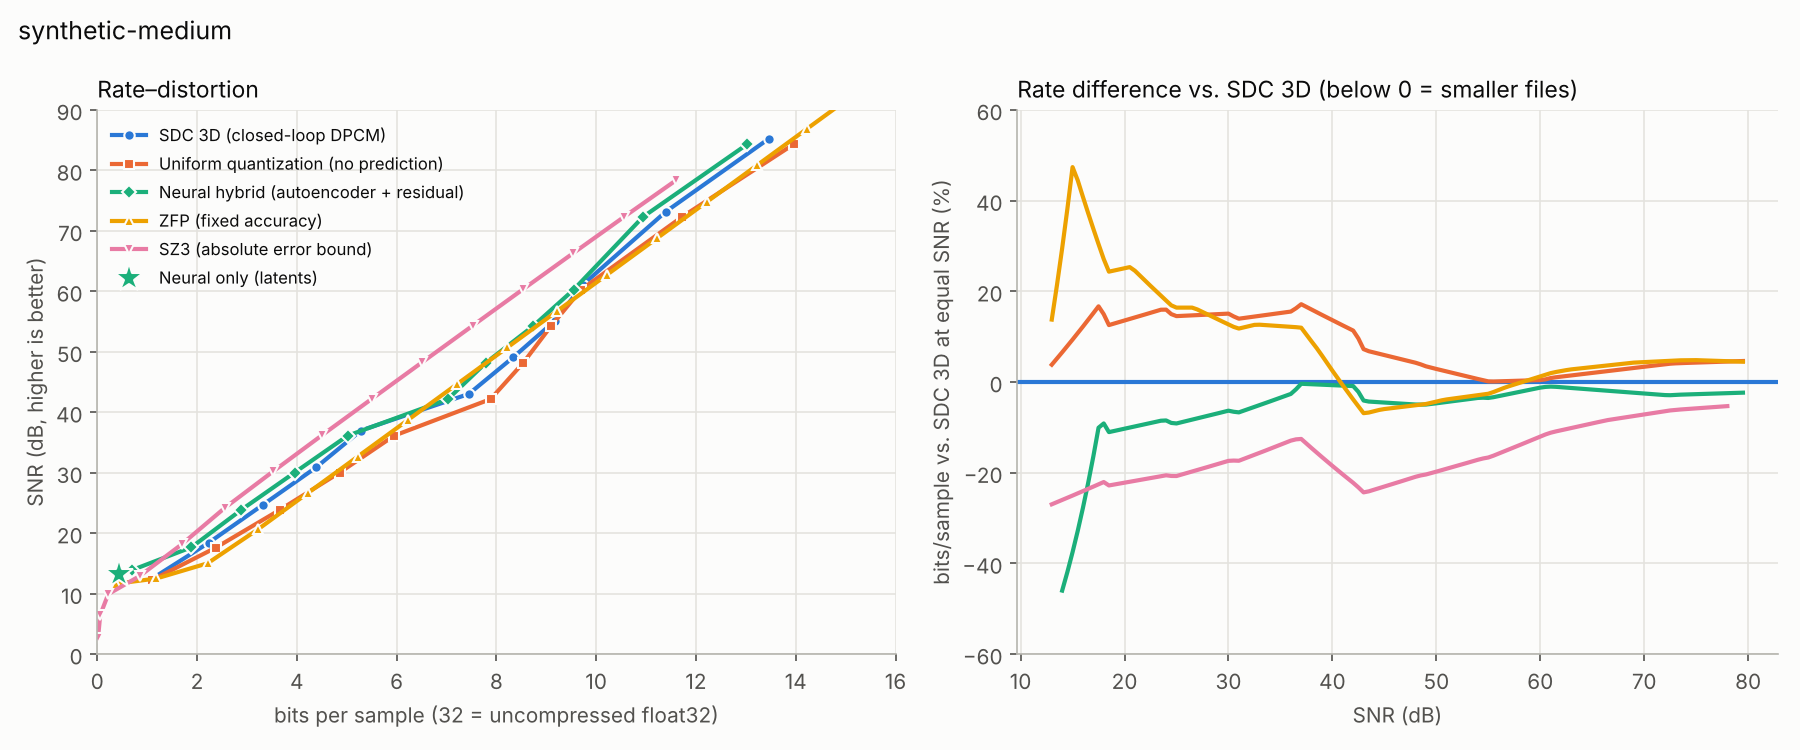
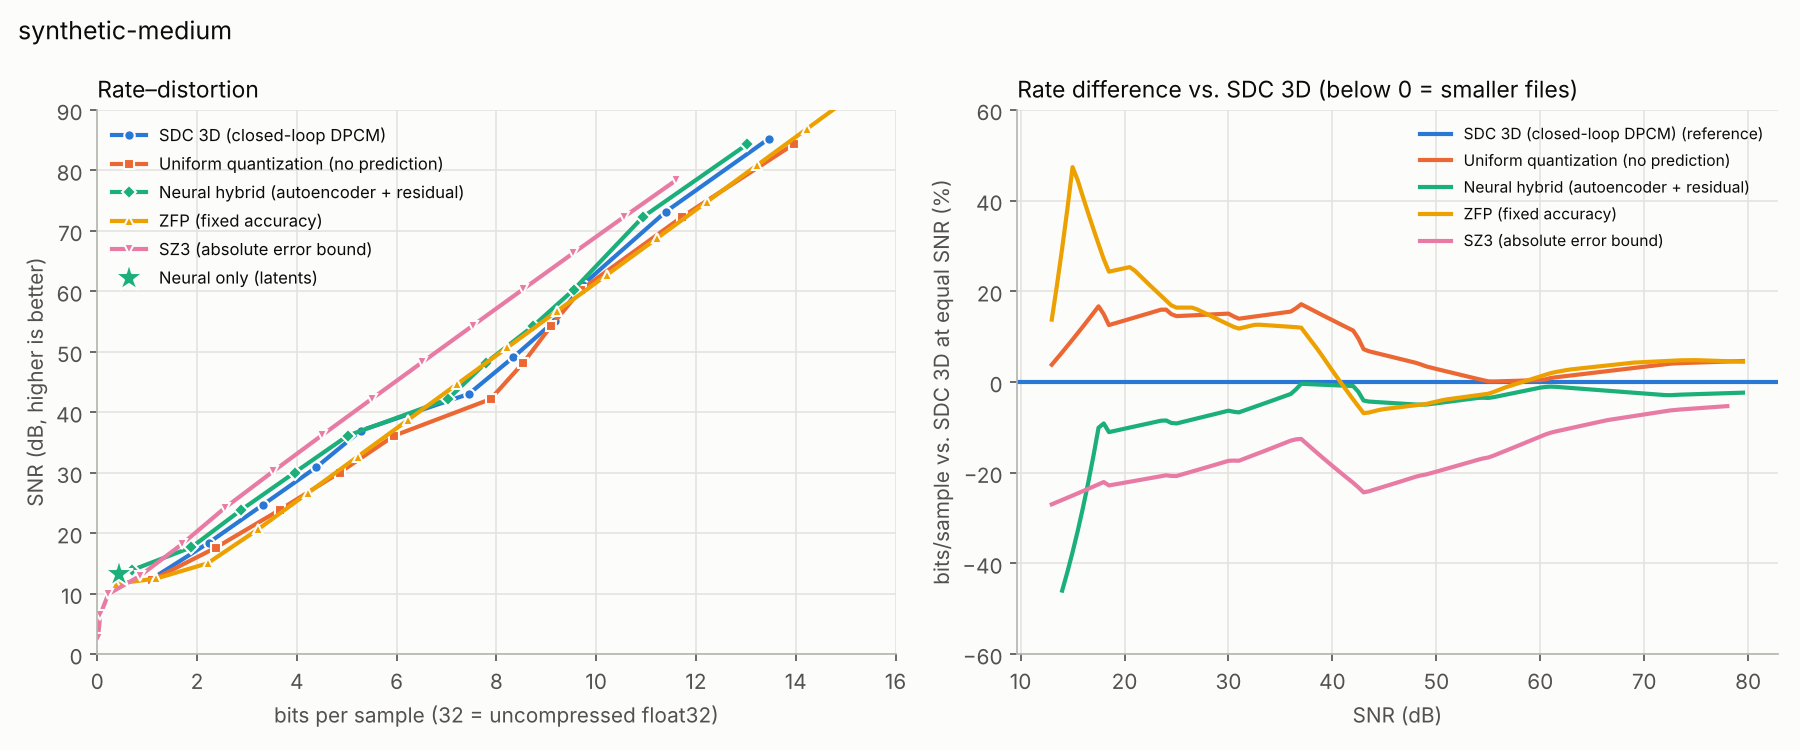
docs: corrections from an independent review of every published number
- error bound stated as half a step up to float32 rounding (measured max
  errors exceed s*step/2 by ~1 ulp)
- slowdown ranges recomputed: 25-80x (compress) / 175-240x (decompress)
  vs SDC 3D; 25-90x / 170-390x vs the classical codecs
- noise described in absolute terms (sigma = 6, ~20% of signal RMS, the
  noisy volume is 13.8 dB from the clean one) instead of '2%'
- 15 dB figures marked as interpolated, with the nearest measured points
- OOD: parity at 15 dB and a loss at 40 dB (also behind ZFP) now stated
- ZFP beats SDC 3D between ~45 and 55 dB; SZ3 keeps an edge at high SNR
- 75:1 excludes the 131 KB model (~0.06 bits/sample on this volume)
- provenance: commit per run, external library versions recorded in the
  rate-distortion reports (numbers unchanged)
- sweep bit depths, run time, sdc-bench dependency, rounding of two cells
- test: legacy 3D payload decode

Claude-Session: https://claude.ai/code/session_01L6AUcGxWRM2t1wnuYrfkAc

Changed region(s): [[0.7778, 0.1533, 0.9644, 0.3373]]

diff --git a/sdc-core/src/test/java/com/sdc/core/ClosedLoopCodecTest.java b/sdc-core/src/test/java/com/sdc/core/ClosedLoopCodecTest.java
@@ -93,4 +93,27 @@ class ClosedLoopCodecTest {
                         assertEquals(cube[i][j][k], rec[i][j][k], tol, "bits=" + bits);
         }
     }
+
+    @Test
+    void legacyVolumePayloadIsStillDecodedWithTheCallerProfile() {
+        int ni = 3, nj = 4, nt = 64;
+        float[][][] norm = new float[ni][nj][nt];
+        for (int i = 0; i < ni; i++)
+            for (int j = 0; j < nj; j++)
+                for (int k = 0; k < nt; k++)
+                    norm[i][j][k] = (float) (0.8 * Math.sin((k + i + j) * 0.2));
+        // payload exactly as written before the closed-loop revision: open-loop residual, 16 bits
+        float[] flat = VolumeBlock3DCodec.flatten3D(VolumeBlock3DCodec.residualEncode(norm));
+        short[] q = LinearQuantizer.encode(flat, CompressionProfile.defaultHighQuality());
+        byte[] legacy = TraceBlockCodec.deflate(TraceBlockCodec.shortsToBytes(q), 9);
+        assertEquals((byte) 0x78, legacy[0]);
+        VolumeBlock3D meta = new VolumeBlock3D(0, 0, 0, new float[ni][nj][nt]);
+        float[][][] rec = VolumeBlock3DCompressor.decompressBlock(
+                new VolumeBlock3DCompressor.CompressedVolumeBlock3D(meta, -1f, 1f, legacy),
+                CompressionProfile.defaultHighQuality());
+        for (int i = 0; i < ni; i++)
+            for (int j = 0; j < nj; j++)
+                for (int k = 0; k < nt; k++)
+                    assertEquals(norm[i][j][k], rec[i][j][k], 0.01, "voxel " + i + "," + j + "," + k);
+    }
 }

diff --git a/sdc-ai/src/main/java/com/sdc/ai/NeuralHybridCodec.java b/sdc-ai/src/main/java/com/sdc/ai/NeuralHybridCodec.java
@@ -14,14 +14,14 @@ import java.util.zip.Inflater;
 
 /**
  * Hybrid neural codec for 3D seismic volumes: a learned autoencoder predicts each section, and
- * the prediction residual is uniformly quantized, so the maximum error is guaranteed.
+ * the prediction residual is uniformly quantized, so the maximum error is bounded.
  *
  * <pre>
  *   x_n   = x / s                      s = peak |x| of the volume (stored)
  *   y     = round(encoder(x_n))        per inline section (crossline x time), int8 latents
  *   p     = decoder(y)                 prediction, identical on encoder and decoder side
  *   q     = round((x_n - p) / step)    step = 1 / (2^(bits-1) - 1)
- *   x_hat = s * (p + q * step)         |x - x_hat| <= s * step / 2 for every sample
+ *   x_hat = s * (p + q * step)         |x - x_hat| <= s * step / 2, up to float32 rounding (~1 ulp of x)
  * </pre>
  *
  * <p>Payload = deflate(latents) + deflate(residual indices, stored as byte planes). With {@link Predictor#NONE} the

diff --git a/sdc-core/src/main/java/com/sdc/core/ClosedLoopQuantizer.java b/sdc-core/src/main/java/com/sdc/core/ClosedLoopQuantizer.java
@@ -10,8 +10,8 @@ import java.io.ByteArrayOutputStream;
  * The previous (open-loop) codecs predicted from the original samples while encoding and from
  * the reconstructed samples while decoding, so quantization error accumulated along the
  * prediction chain. Here the encoder runs the decoder's reconstruction internally, so the
- * error of every sample is bounded by half a quantization step (plus the rare overload case,
- * which the loop corrects on the following samples).</p>
+ * error of every sample is bounded by half a quantization step, up to float rounding (plus the
+ * rare overload case, which the loop corrects on the following samples).</p>
  *
  * <p>Payload layout (all codecs): {@code [FORMAT_CLOSED_LOOP][bits][deflate(stream)]} where the
  * stream holds one signed byte per sample when {@code bits <= 8}; otherwise each sample is a

diff --git a/benchmark/rd_report.py b/benchmark/rd_report.py
@@ -118,7 +118,9 @@ def main():
 
     rows = list(csv.DictReader(open(os.path.join(args.results, "rd.csv"))))
     ext_rows = []
-    report = ["# Rate–distortion report", "",
+    import importlib.metadata as md
+    versions = ", ".join(f"{p} {md.version(p)}" for p in ("zfpy", "hdf5plugin", "h5py", "numpy"))
+    report = ["# Rate–distortion report", "", f"External codec libraries: {versions}.", "",
               "bits/sample over raw float32 samples (32 = uncompressed); SNR in dB on the original amplitudes.",
               "External codecs (ZFP, SZ3) run in Python on exactly the same samples.", ""]
 

diff --git a/benchmark/README.md b/benchmark/README.md
@@ -16,7 +16,7 @@ benchmark/
         └── run.log           # console output
 ```
 
-The code lives in the [`sdc-bench`](../sdc-bench) Maven module, which depends only on `sdc-core` (no TensorFlow).
+The code lives in the [`sdc-bench`](../sdc-bench) Maven module, which depends on `sdc-core` and on the pure-Java neural codec in `sdc-ai` (TensorFlow Java is excluded).
 
 ## How to run
 
@@ -26,7 +26,7 @@ Prerequisites: JDK 17+ and Maven 3.9 (same as the rest of the project). About 3 
 ./benchmark/run-benchmark.sh
 ```
 
-This builds `sdc-core` + `sdc-bench`, generates the datasets (`small` and `medium`) if needed, checks each one's SHA-256, runs the benchmark and writes to `benchmark/results/<YYYY-MM-DD>_<os>-<arch>-<N>cpu/`. It takes about 2 minutes on the reference machine.
+This builds `sdc-core` + `sdc-bench`, generates the datasets (`small` and `medium`) if needed, checks each one's SHA-256, runs the benchmark and writes to `benchmark/results/<YYYY-MM-DD>_<os>-<arch>-<N>cpu/`. Without a neural model it takes about 2 minutes; with the neural codec and `RD=1` the reference run took about 45 minutes on 2 vCPUs (the neural profiles alone take ~22 minutes on `medium`).
 
 Environment variables:
 
@@ -41,6 +41,8 @@ Environment variables:
 | `LABEL` | `<os>-<arch>-<N>cpu` | run label (becomes part of the directory name) |
 | `OUT` | `benchmark/results/<date>_<label>` | output directory |
 | `SKIP_BUILD` | `0` | `1` skips `mvn package` |
+| `MODEL` | `auto` | neural model (`.sdcnn`); `auto` = `sdc-ai/models/sdc-ae-v1.sdcnn` if present, `none` disables the neural codecs |
+| `RD` | `0` | `1` adds the rate–distortion sweep (`rd.csv`) |
 
 Examples:
 
@@ -59,7 +61,7 @@ Real seismic data tends to be large and restrictively licensed, so it can't be v
 - reflectors dipping in inline and xline with a gentle sinusoidal fold (one every ~25 samples)
 - one planar normal fault (6.5-sample throw)
 - 25 Hz Ricker wavelet, dt = 4 ms
-- exponential attenuation with time and additive Gaussian noise (2% of scale)
+- exponential attenuation with time and additive Gaussian noise (`noiseLevel` 0.02 → σ = 6 amplitude units, i.e. about 20% of the signal RMS; the noisy `medium` volume is 13.8 dB from its noise-free version — a noisy dataset)
 - SEG-Y rev1, format 5 (IEEE float32), inline at trace-header bytes 189-192 and xline at bytes 193-196
 
 | Preset | Grid (IL × XL × samples) | Traces | Size | SHA-256 |
@@ -104,7 +106,7 @@ The SDC codecs run with the three `CompressionProfile` profiles: `HIGH_QUALITY` 
 - **PSNR (dB)** = 20·log10((max − min) / RMSE), using the volume's dynamic range as the peak
 - **NRMSE (%)** = RMSE / RMS(x) × 100, and **maximum absolute error**
 
-**Rate–distortion sweep (`RD=1`).** Profiles compare codecs at different qualities, which can mislead. The sweep runs every bit depth from 4 to 16 (Deflate 9 everywhere) for `sdc-3d`, `uniform-quant` and `neural-hybrid`, plus one `neural-only` point (latents only, no residual), and writes `rd.csv`. `benchmark/rd_report.py` then adds two external, state-of-the-art scientific compressors on exactly the same samples — **ZFP** (fixed accuracy, `zfpy`) and **SZ3** (absolute error bound, `hdf5plugin`) — and reports:
+**Rate–distortion sweep (`RD=1`).** Profiles compare codecs at different qualities, which can mislead. The sweep runs bit depths 4–12, 14 and 16 (Deflate 9 everywhere) for `sdc-3d`, `uniform-quant` and `neural-hybrid`, plus one `neural-only` point (latents only, no residual), and writes `rd.csv`. `benchmark/rd_report.py` then adds two external, state-of-the-art scientific compressors on exactly the same samples — **ZFP** (fixed accuracy, `zfpy`) and **SZ3** (absolute error bound, `hdf5plugin`) — and reports:
 
 - bits/sample needed to reach target SNRs (piecewise-linear interpolation between measured points);
 - **BD-rate**: the average relative difference in bits/sample at equal SNR over the SNR range two curves share (piecewise-linear in log2(bits/sample); the classic cubic fit is not used because Deflate's efficiency changes in steps);
@@ -119,7 +121,7 @@ python benchmark/rd_report.py --results benchmark/results/<run> --segy synthetic
 
 ## Reference results
 
-Run [`results/2026-10-14_linux-x86_64-2cpu`](results/2026-10-14_linux-x86_64-2cpu/summary.md), commit `69fc8c8`, clean tree, `RD=1`. Rate–distortion report: [`rd_report.md`](results/2026-10-14_linux-x86_64-2cpu/rd_report.md).
+Run [`results/2026-10-14_linux-x86_64-2cpu`](results/2026-10-14_linux-x86_64-2cpu/summary.md): Java measurements from commit `69fc8c8` (clean tree, `RD=1`); the external baselines, BD-rate and charts in [`rd_report.md`](results/2026-10-14_linux-x86_64-2cpu/rd_report.md) were produced by `benchmark/rd_report.py` (library versions recorded at the top of the report: zfpy 1.0.1, hdf5plugin 7.1.0 for SZ3, h5py 3.16.0, numpy 2.5.3).
 
 **Hardware/software:** Intel Xeon @ 2.80 GHz, 2 vCPUs, 8 GiB RAM, container · OpenJDK 21.0.12 (G1, fixed 3 GiB heap). Full details in [`hardware.txt`](results/2026-10-14_linux-x86_64-2cpu/hardware.txt). Maven Central was not reachable from that machine, so the benchmark jar was compiled with `javac` from the same commit; the Maven build and all tests run in CI (`.github/workflows/build.yml`).
 
@@ -130,10 +132,10 @@ Run [`results/2026-10-14_linux-x86_64-2cpu`](results/2026-10-14_linux-x86_64-2cp
 | sdc-2d | HIGH_QUALITY | 2.06:1 | 15.57 | 1712 ± 69 | 396 ± 16 | 85.97 | 0.0030 |
 | sdc-2d | BALANCED | 2.69:1 | 11.89 | 2394 ± 61 | 372 ± 19 | 61.88 | 0.048 |
 | sdc-2d | HIGH_COMPRESSION | 4.97:1 | 6.44 | 937 ± 118 | 253 ± 14 | 37.74 | 0.77 |
-| sdc-3d | HIGH_QUALITY | 2.38:1 | 13.46 | 1599 ± 31 | 374 ± 13 | 85.22 | 0.0031 |
+| sdc-3d | HIGH_QUALITY | 2.38:1 | 13.46 | 1598 ± 31 | 374 ± 13 | 85.22 | 0.0031 |
 | sdc-3d | BALANCED | 3.27:1 | 9.78 | 3479 ± 98 | 281 ± 10 | 61.13 | 0.049 |
 | sdc-3d | HIGH_COMPRESSION | 6.06:1 | 5.28 | 1038 ± 54 | 316 ± 11 | 36.99 | 0.78 |
-| neural-hybrid | HIGH_QUALITY | 2.46:1 | 13.03 | 87880 ± 2188 | 65684 ± 3158 | 84.36 | 0.0032 |
+| neural-hybrid | HIGH_QUALITY | 2.46:1 | 13.03 | 87880 ± 2188 | 65684 ± 3157 | 84.36 | 0.0032 |
 | neural-hybrid | BALANCED | 3.33:1 | 9.62 | 85512 ± 373 | 67475 ± 2184 | 60.27 | 0.050 |
 | neural-hybrid | HIGH_COMPRESSION | 6.36:1 | 5.03 | 82619 ± 742 | 62227 ± 738 | 36.13 | 0.81 |
 | uniform-quant | HIGH_QUALITY | 2.29:1 | 13.96 | 1351 ± 21 | 227 ± 6 | 84.36 | 0.0032 |
@@ -151,15 +153,17 @@ bits/sample needed to reach a target SNR (lower is better):
 |---|---:|---:|---:|---:|---:|---:|---:|
 | SDC 3D (closed-loop DPCM) | 1.49 | 2.47 | 3.37 | 4.22 | 6.27 | 8.46 | 9.63 |
 | Uniform quantization (no prediction) | 1.63 | 2.80 | 3.86 | 4.85 | 7.12 | 8.70 | 9.67 |
-| **Neural hybrid (autoencoder + residual)** | **0.93** | 2.21 | 3.06 | 3.95 | 6.23 | 8.06 | 9.51 |
+| Neural hybrid (autoencoder + residual) | **0.93** | 2.21 | 3.06 | 3.95 | 6.23 | 8.06 | 9.51 |
 | ZFP (fixed accuracy) | 2.20 | 3.09 | 3.92 | 4.75 | 6.43 | 8.09 | 9.75 |
 | SZ3 (absolute error bound) | 1.12 | **1.92** | **2.67** | **3.48** | **5.11** | **6.79** | **8.47** |
 
-Neural only (latents, no residual): **0.427 bits/sample (75:1) at 13.25 dB**.
+Neural only (latents, no residual): **0.427 bits/sample (75:1) at 13.25 dB**, not counting the 131 KB model, which is shared by every file (≈0.06 bits/sample if charged to this volume alone).
+
+Values are interpolated between measured points (piecewise-linear in log2(bits/sample)). The 15 dB column sits between distant points: measured, the hybrid needs 0.70 bits/sample at 13.9 dB, uniform quantization 1.10 at 12.2 dB, SDC 3D 1.12 at 12.6 dB (see `rd.csv`). Bold = lowest per column.
 
 | BD-rate (bits/sample at equal SNR) | vs. SDC 3D | vs. uniform quantization |
 |---|---:|---:|
-| Neural hybrid | **−5.7%** | **−12.2%** |
+| Neural hybrid | −5.7% | −12.2% |
 | Uniform quantization | +7.4% | — |
 | ZFP | +7.1% | −0.4% |
 | SZ3 | −16.3% | −22.4% |
@@ -169,22 +173,22 @@ Neural only (latents, no residual): **0.427 bits/sample (75:1) at 13.25 dB**.
 ### What the numbers show
 
 1. **The two codec defects found on 2026-10-12 are fixed.** `sdc-2d` `BALANCED`/`HIGH_COMPRESSION` now reach 61.9 / 37.7 dB (they were at about 0 dB), and `sdc-3d` `HIGH_COMPRESSION` reaches 37.0 dB at 6.06:1 (it was 9.6 dB at 4.79:1). Both codecs now use closed-loop DPCM and store the bit depth in each payload.
-2. **The neural predictor measurably reduces size.** Against the same quantizer without the network (same step, same error bound, same container), the hybrid needs **12.2% fewer bits on average** at equal SNR, and **43% fewer at 15 dB** (0.93 vs 1.63 bits/sample). Against SDC 3D the average gain is 5.7%, and 38% at 15 dB.
-3. **The gain concentrates at low rates.** At high fidelity the residual is dominated by the 2% Gaussian noise of the data, which no predictor can remove, so all codecs converge.
-4. **SZ3 is the strongest codec overall** (−16.3% vs SDC 3D). The neural hybrid beats SZ3 only at the lowest rates (15 dB: 0.93 vs 1.12 bits/sample). ZFP is weaker than every predictive codec here.
-5. **The neural codec is slow:** about 85 s to compress and 65 s to decompress 62.5 MiB in pure Java on 2 vCPUs — roughly 50–80× slower than SDC 3D to compress and about 200× slower to decompress.
+2. **The neural predictor measurably reduces size.** Against the same quantizer without the network (same step, same error bound, same container), the hybrid needs **12.2% fewer bits on average** at equal SNR, and about **43% fewer at 15 dB** (0.93 vs 1.63 bits/sample, interpolated). Against SDC 3D the average gain is 5.7%, and about 38% at 15 dB.
+3. **The gain concentrates at low rates.** At high fidelity the residual is dominated by the data's random noise, which no predictor can remove, so the codecs that share this project's quantizer + Deflate design converge; SZ3 keeps an advantage there (8.47 vs 9.51–9.75 bits/sample at 60 dB) thanks to its own entropy coder.
+4. **SZ3 is the strongest codec overall** (−16.3% vs SDC 3D). The neural hybrid beats SZ3 only at the lowest rates (15 dB: 0.93 vs 1.12 bits/sample). ZFP is weaker on average (BD-rate +7.1% vs SDC 3D) but beats SDC 3D between about 45 and 55 dB.
+5. **The neural codec is slow:** about 85 s to compress and 65 s to decompress 62.5 MiB in pure Java on 2 vCPUs — 25–80× slower than SDC 3D to compress and 175–240× slower to decompress (up to ~390× slower than uniform quantization).
 6. **Neural only** stores just the latents: 0.427 bits/sample (75:1) at 13.25 dB. That SNR is close to the data's own signal-to-noise ratio (13.81 dB): the reconstruction keeps the reflectors and drops most of the noise. Against the noise-free version of the same volume it reaches **19.86 dB**, better than the noisy input itself (`java -cp <bench jar> com.sdc.bench.CleanSignalCheck medium`). Whether discarding noise is acceptable depends on the use; the hybrid modes keep it.
 
 ### Out-of-distribution check
 
-A model trained on synthetic data must be checked on data it was not designed for. Run [`results/2026-10-14_linux-x86_64-2cpu-ood-noise5`](results/2026-10-14_linux-x86_64-2cpu-ood-noise5/rd_report.md): a 128 × 128 × 1000 volume with **5% noise instead of 2%** and seed 3000 (`TrainingDataGenerator /tmp/ood 1 3000 128 128 1000 0.05`).
+A model trained on synthetic data must be checked on data it was not designed for. Run [`results/2026-10-14_linux-x86_64-2cpu-ood-noise5`](results/2026-10-14_linux-x86_64-2cpu-ood-noise5/rd_report.md): a 128 × 128 × 1000 volume with `noiseLevel` **0.05 instead of 0.02** (σ = 15 instead of 6) and seed 3000 (`TrainingDataGenerator /tmp/ood 1 3000 128 128 1000 0.05`; SHA-256 starts with `57e0bd`), measured from commit `5fb932d`.
 
 | BD-rate (bits/sample at equal SNR) | vs. SDC 3D | vs. uniform quantization |
 |---|---:|---:|
 | Neural hybrid | −0.9% | −5.3% |
 | SZ3 | −12.1% | −16.0% |
 
-**The gain shrinks under this distribution shift**: the hybrid still beats plain quantization (−5.3%), but it is only at parity with SDC 3D, and the neural-only point drops to 7.65 dB. Real data, which differs much more from the training set than this, will need its own training and evaluation.
+**The gain shrinks under this distribution shift.** The hybrid still beats plain quantization on average (−5.3%), but against SDC 3D it is at parity on average (−0.9%), has no advantage at 15 dB (2.36 vs 2.37 bits/sample) and **loses at 40 dB** (7.42 vs 7.04, also behind ZFP's 7.33). The neural-only point drops to 7.65 dB. Real data, which differs much more from the training set than this, will need its own training and evaluation.
 
 ### Previous run (2026-10-12, before the fixes)
 
@@ -202,6 +206,6 @@ A model trained on synthetic data must be checked on data it was not designed fo
 - **Synthetic data only so far.** The neural model was trained on volumes from the same generator (different seeds). Real data is less regular; run with `SEGY=...` on public volumes (F3 Netherlands, Volve) before drawing conclusions for production data.
 - **Entropy coding is Deflate for every codec.** That keeps the comparison fair inside this project but penalizes all of them against SZ3, which uses its own Huffman + zstd stage.
 
-- The synthetic data has 2% Gaussian noise, which limits lossless compression. Real data (especially stacked and filtered) usually compresses better. Confirm with `SEGY=...`.
+- The synthetic data is noisy (σ ≈ 20% of the signal RMS), which limits lossless compression and makes high-fidelity lossy compression expensive for every codec. Real data (especially stacked and filtered) usually compresses better. Confirm with `SEGY=...`.
 - On a shared VM or container, the standard deviation is 2% to 10%. For fine-grained comparisons, increase `ITERATIONS` and close other processes. If you have host access, pin the CPU governor to `performance`.
 - This is a simple end-to-end harness, not JMH. It suits operations from hundreds of ms to seconds, like these, but not microbenchmarks.

diff --git a/sdc-ai/README.md b/sdc-ai/README.md
@@ -2,7 +2,8 @@
 
 This module adds a **learned predictor** to SDC and measures what it contributes. A small
 convolutional autoencoder predicts each seismic section; the prediction error (residual) is
-quantized and stored, so the reconstruction error is **bounded by construction**. The model is
+quantized and stored, so the reconstruction error is **bounded** (half a quantization step, up to
+float32 rounding). The model is
 trained with TensorFlow, then executed in **pure Java** — the codec and the benchmark do not
 need a TensorFlow runtime.
 
@@ -13,7 +14,7 @@ x_n   = x / s                       s = peak |x| of the volume (stored in the pa
 y     = round(encoder(x_n))         per inline section (crossline × time), int8 latents
 p     = decoder(y)                  prediction, identical on the encoding and decoding side
 q     = round((x_n − p) / step)     step = 1 / (2^(bits−1) − 1)
-x̂     = s · (p + q · step)          |x − x̂| ≤ s · step / 2 for every sample
+x̂     = s · (p + q · step)          |x − x̂| ≤ s · step / 2 (+ float32 rounding, ~1 ulp of x)
 ```
 
 * **Payload** = Deflate(latents) + Deflate(residual indices stored as byte planes), plus the
@@ -33,7 +34,8 @@ x̂     = s · (p + q · step)          |x − x̂| ≤ s · step / 2 for every 
 Inference is deterministic: rows are computed in parallel but every value is accumulated in a
 fixed order, so the encoder and the decoder always build the same prediction. The test
 `NeuralModelParityTest` checks the Java inference against TensorFlow outputs saved at training
-time (maximum difference ~1e-7).
+time (measured differences: ≤ 2e-7 on the decoder output, ≤ 2e-6 on the encoder latents; the test
+asserts 1e-4 on a 32 × 48 section).
 
 ## Model `models/sdc-ae-v1.sdcnn`
 
@@ -42,7 +44,7 @@ time (maximum difference ~1e-7).
 | Architecture | encoder conv3×3(16) → conv3×3/2(32) → conv3×3/2(32) → conv3×3/2(8); decoder mirrors it with nearest 2× upsampling; LeakyReLU(0.1); **32,713 parameters** |
 | Latents | 8 channels at 1/8 resolution in both directions (1 latent value per 8 samples) |
 | Training data | 10 synthetic volumes 64 × 64 × 1000, seeds **1000–1009** (`TrainingDataGenerator`) |
-| Validation data | 2 volumes, seeds **2000–2001** |
+| Validation data | 2 volumes, seeds **2000–2001** (files named `train-2000/2001.sgy` by the generator) |
 | Benchmark data | seed **20261012** — never used for training or validation |
 | Training | 16,000 random 64 × 128 patches from inline and crossline sections, 10 epochs, Adam + cosine decay, uniform latent noise (quantization proxy) + L1 rate penalty 2e-5, TensorFlow 2.20 CPU, ~19 min |
 | Metadata | `models/sdc-ae-v1.json` (includes the SHA-256), log in `models/sdc-ae-v1.train.log` |
@@ -72,7 +74,7 @@ benchmark results refer to.
   Volve). A model trained on synthetic data may need retraining on real data.
 * **2D model.** Each inline section is predicted independently; redundancy across inlines is
   not exploited.
-* **Speed.** Pure-Java CPU inference is one to two orders of magnitude slower than the classical
-  codecs (see the benchmark timings).
+* **Speed.** Pure-Java CPU inference is slow: on `synthetic-medium` (2 vCPUs) 25–90× slower to
+  compress and 170–390× slower to decompress than the classical codecs.
 * **Entropy coding** is Deflate for every codec in the comparison, which keeps the comparison
   fair but is far from optimal; a learned entropy model would reduce the latent cost further.

diff --git a/README.md b/README.md
@@ -145,9 +145,9 @@ Output will be in `dist/sdc-ui/`
 ### sdc-ai Module
 - Convolutional autoencoder (32.7k parameters) trained with TensorFlow on synthetic sections; training script and model metadata in `sdc-ai/training` and `sdc-ai/models`
 - Dependency-free `.sdcnn` model format and pure-Java inference, checked against TensorFlow outputs in the tests
-- `NeuralHybridCodec`: int8 latents + uniformly quantized residual, so the maximum error is bounded; a zero-prediction mode isolates what the network contributes
+- `NeuralHybridCodec`: int8 latents + uniformly quantized residual, so the maximum error is bounded (to within float32 rounding); a zero-prediction mode isolates what the network contributes
 - TensorFlow Java runtime placeholder (`AeRuntime`), not required by the codec
-- Limitations: trained and evaluated on synthetic data only; 50–200× slower than the classical codecs (see [`sdc-ai/README.md`](sdc-ai/README.md))
+- Limitations: trained and evaluated on synthetic data only; 25–90× slower to compress and 170–390× slower to decompress than the classical codecs (see [`sdc-ai/README.md`](sdc-ai/README.md))
 
 ## Project Structure
 

diff --git a/benchmark/results/2026-10-14_linux-x86_64-2cpu-ood-noise5/rd_report.md b/benchmark/results/2026-10-14_linux-x86_64-2cpu-ood-noise5/rd_report.md
@@ -1,5 +1,7 @@
 # Rate–distortion report
 
+External codec libraries: zfpy 1.0.1, hdf5plugin 7.1.0, h5py 3.16.0, numpy 2.5.3.
+
 bits/sample over raw float32 samples (32 = uncompressed); SNR in dB on the original amplitudes.
 External codecs (ZFP, SZ3) run in Python on exactly the same samples.
 

diff --git a/benchmark/results/2026-10-14_linux-x86_64-2cpu/rd_report.md b/benchmark/results/2026-10-14_linux-x86_64-2cpu/rd_report.md
@@ -1,5 +1,7 @@
 # Rate–distortion report
 
+External codec libraries: zfpy 1.0.1, hdf5plugin 7.1.0, h5py 3.16.0, numpy 2.5.3.
+
 bits/sample over raw float32 samples (32 = uncompressed); SNR in dB on the original amplitudes.
 External codecs (ZFP, SZ3) run in Python on exactly the same samples.
 
